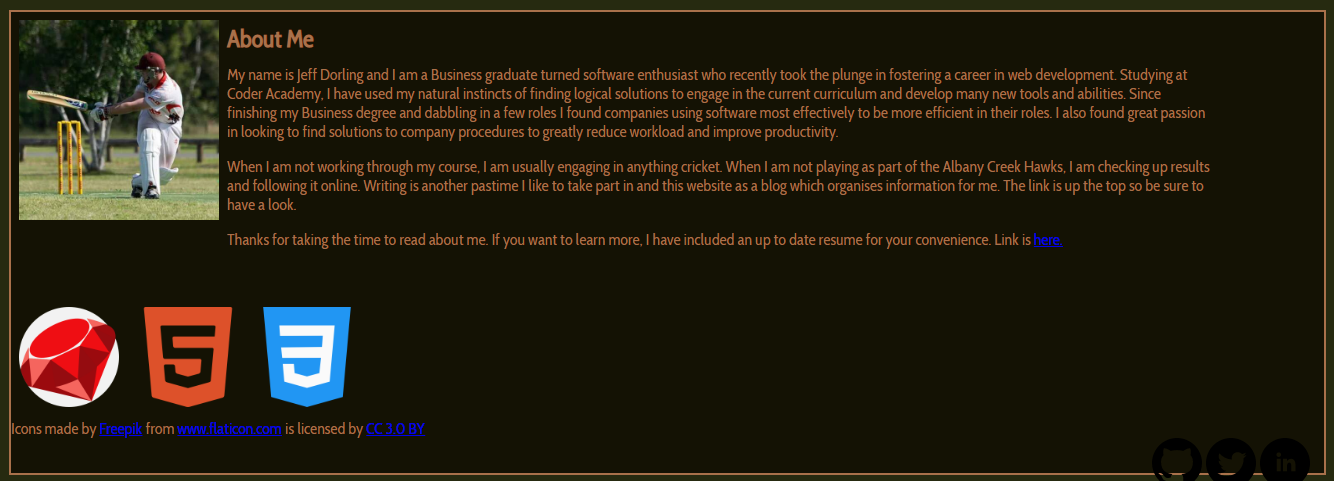
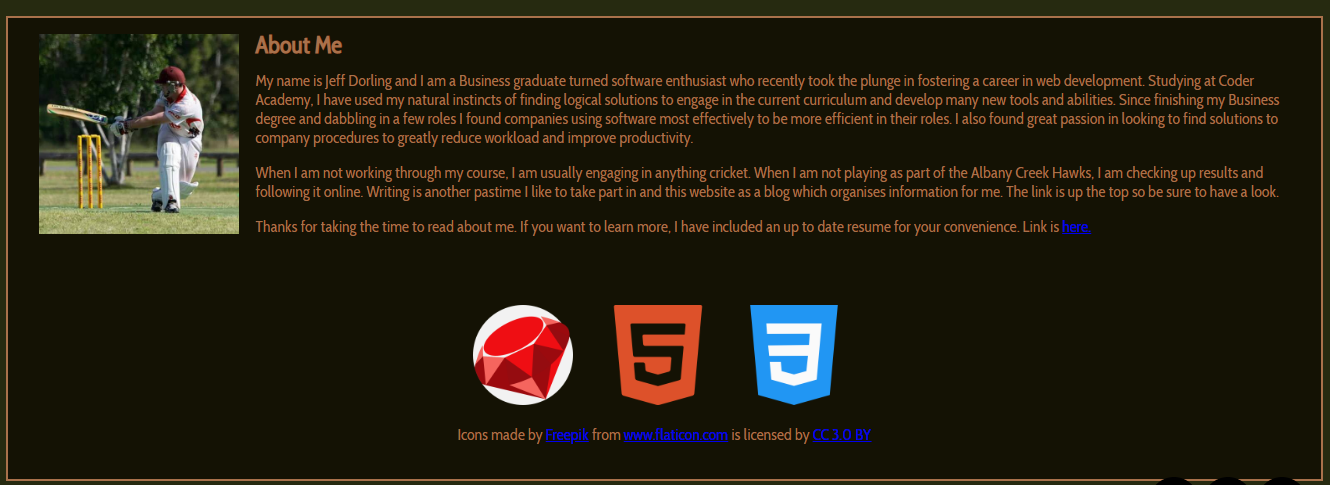
error occured with media mixin. just repaired

Changed region(s): [[0.0, 0.0, 1.0, 1.0], [0.4624, 0.6237, 0.6474, 0.842], [0.3391, 0.6237, 0.4316, 0.842]]

diff --git a/portfoliostyle.scss b/portfoliostyle.scss
@@ -6,6 +6,14 @@ $fourth-colour: #A9714B;
 $fontcabin: 'Cabin Condensed', sans-serif;
 $fontbarlow: 'Barlow Semi Condensed', sans-serif;
 
+@mixin media-display {
+    display: flex;
+    flex-direction: column;
+    align-items: center;
+    margin: 0.5em; 
+}
+      
+
 *{margin: 0;
 padding: 0}
 
@@ -20,17 +28,12 @@ html {
 
 @media only screen and (max-width: 768px) {
     #nav-container a{
-        display: flex;
-        flex-direction: column;
-        align-items: center;
-        margin: 0.5em; 
+        @include media-display
     }
     
     #about-me{
-        display: flex;
-        flex-direction: column;
-        align-items: center;
-        margin: 0.5em; 
+        text-align: center;
+        @include media-display
     }
 }
 
@@ -121,9 +124,7 @@ h4 {margin-top: .5em;}
 #about-me {
     margin: 1em;
     display: flex;
-    flex-wrap: wrap;
-    justify-content: right;
-    height: 80%;
+    justify-content: center;
     background-color: $first-colour;
     color: $fourth-colour;
     border-style: solid;
@@ -133,7 +134,7 @@ h4 {margin-top: .5em;}
 }
 
 #about-me img{
-    padding: 0.5em;
+    padding: 1em;
 }
 
 #about-me h1{
@@ -142,7 +143,7 @@ h4 {margin-top: .5em;}
 }
 
 #about-me-info {
-    max-width: 75%;
+    max-width: 80%;
 }
 
 #about-me p {

diff --git a/portfoliostyle.css b/portfoliostyle.css
@@ -28,6 +28,7 @@ html {
     margin: 0.5em;
   }
   #about-me {
+    text-align: center;
     display: -webkit-box;
     display: -ms-flexbox;
     display: flex;
@@ -169,12 +170,9 @@ h4 {
   display: -webkit-box;
   display: -ms-flexbox;
   display: flex;
-  -ms-flex-wrap: wrap;
-      flex-wrap: wrap;
-  -webkit-box-pack: right;
-      -ms-flex-pack: right;
-          justify-content: right;
-  height: 80%;
+  -webkit-box-pack: center;
+      -ms-flex-pack: center;
+          justify-content: center;
   background-color: #141204;
   color: #A9714B;
   border-style: solid;
@@ -184,7 +182,7 @@ h4 {
 }
 
 #about-me img {
-  padding: 0.5em;
+  padding: 1em;
 }
 
 #about-me h1 {
@@ -193,7 +191,7 @@ h4 {
 }
 
 #about-me-info {
-  max-width: 75%;
+  max-width: 80%;
 }
 
 #about-me p {
